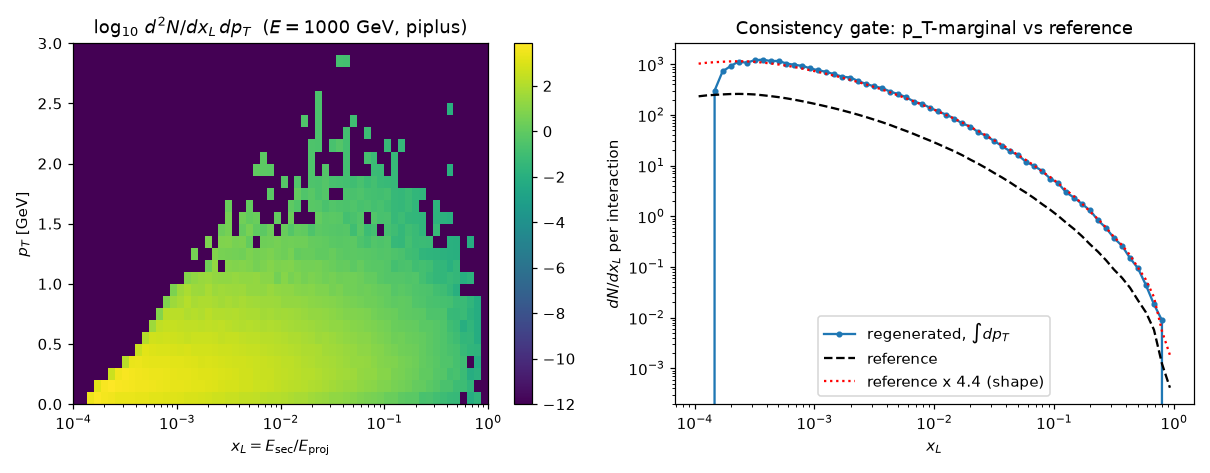
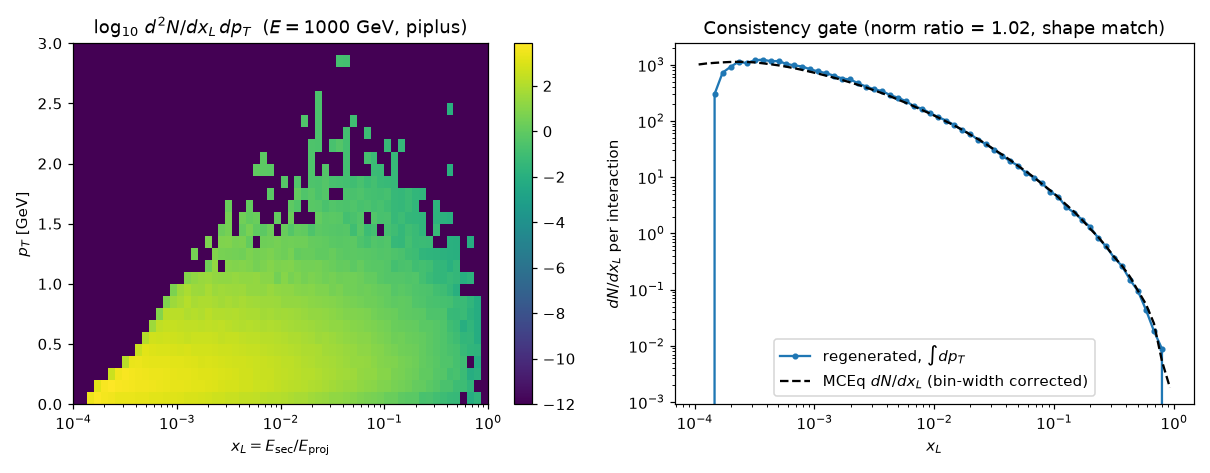
Consistency-gate plot: apply the bin-width correction directly
The figure compared the regenerated dN/dx_L to MCEq's *raw* stored yield (a factor
1/Delta(lnE) low) plus a 'reference x 4.4 (shape)' rescale line -- which read like
a bug. The reference is now plotted already bin-width-corrected (load_mceq_reference
divides by Delta(lnE)), so the regenerated and MCEq curves overlay directly; the
redundant rescale line is removed and the residual norm ratio (1.02) goes in the
title as the quantitative check. Regenerated kernel_real_piplus.png.

diff --git a/tools/mceq3d/kernel_regeneration.py b/tools/mceq3d/kernel_regeneration.py
@@ -658,19 +658,22 @@ def _plot(kernel, marginal, reference, grid, args):
         r"regenerated, $\int d\theta$" if args.angular else r"regenerated, $\int dp_T$"
     )
     axR.loglog(grid.xl_centers, marginal[i], "o-", ms=3, label=mlabel)
+    title = "Consistency gate: p_T-marginal vs MCEq"
     if reference is not None:
+        # reference is MCEq's stored dN/dx_L already divided by the log-energy bin
+        # width Delta(lnE) (load_mceq_reference) -> directly comparable, no rescale.
         m = reference[i] > 0
-        norm = np.median((marginal[i][m] / reference[i][m]))
-        axR.loglog(grid.xl_centers, reference[i], "k--", label="reference")
+        norm = np.median(marginal[i][m] / reference[i][m])
         axR.loglog(
             grid.xl_centers,
-            reference[i] * norm,
-            "r:",
-            label=f"reference x {norm:.2g} (shape)",
+            reference[i],
+            "k--",
+            label=r"MCEq $dN/dx_L$ (bin-width corrected)",
         )
+        title = f"Consistency gate (norm ratio = {norm:.2f}, shape match)"
     axR.set_xlabel(r"$x_L$")
     axR.set_ylabel(r"$dN/dx_L$ per interaction")
-    axR.set_title("Consistency gate: p_T-marginal vs reference")
+    axR.set_title(title)
     axR.legend()
 
     fig.tight_layout()
